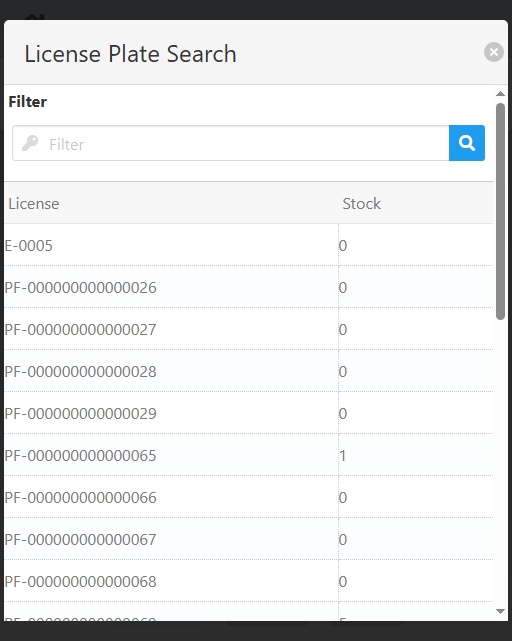
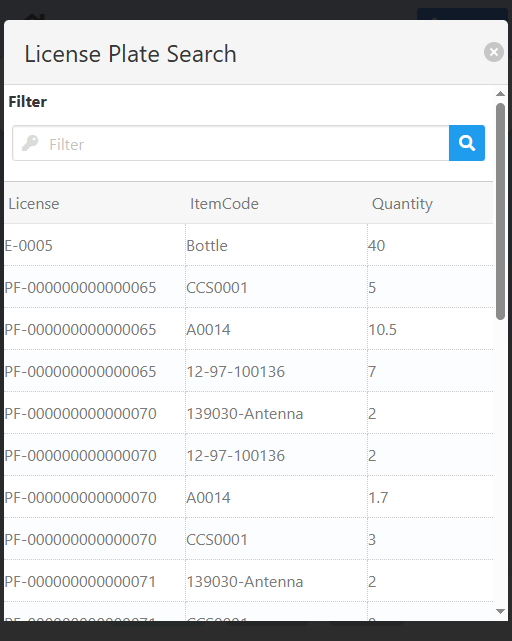
Update Reprinting with changes/improvements made

diff --git a/docs/apps/reprinting.md b/docs/apps/reprinting.md
@@ -60,13 +60,9 @@ You can find all PDFs in the project folder inside the /PDF/PO/ directory.
 :::note[INFO]
 This is how the label-type printing works:
 
-**Line:** A single PDF with all the lines, consecutively.
-
 **Unit/Pack:** One PDF per box.
 
 **Batch:** A single PDF with one page per batch.
-
-**Serial:** A single PDF with one page per serial.
 
 **LPN:** A single PDF with one page per item/line.
 :::
@@ -75,7 +71,7 @@ This is how the label-type printing works:
 
 ### Label Type Selection
 
-On this screen you can select the way by which you want to print the label: **Line**, **Unit/Pack**, **Batch**, **Serial** and **LPN**.
+On this screen you can select the way by which you want to print the label: **Unit/Pack**, **Batch** and **LPN**.
 
 ![Label Type Selection screen](./img-reprinting/label_type_selection_screen.png)
 
@@ -119,6 +115,14 @@ If you want to close the modal without making any changes, click the <IIcon icon
 On this modal you need to select one of the **LPNs** listed.
 
 ![LPN Search modal](./img-reprinting/lpn_search_modal.png)
+
+<CustomDetails summary="Table Reference">
+  | Column | Description |
+  | --- | --- |
+  | License | License Plate. |
+  | ItemCode | Item assigned to the License Plate. |
+  | Quantity | Item quantity assigned to the Licese Plate. |
+</CustomDetails>
 
 You can select any item by clicking on it, which will close the modal with that **LPN** already set.
 
